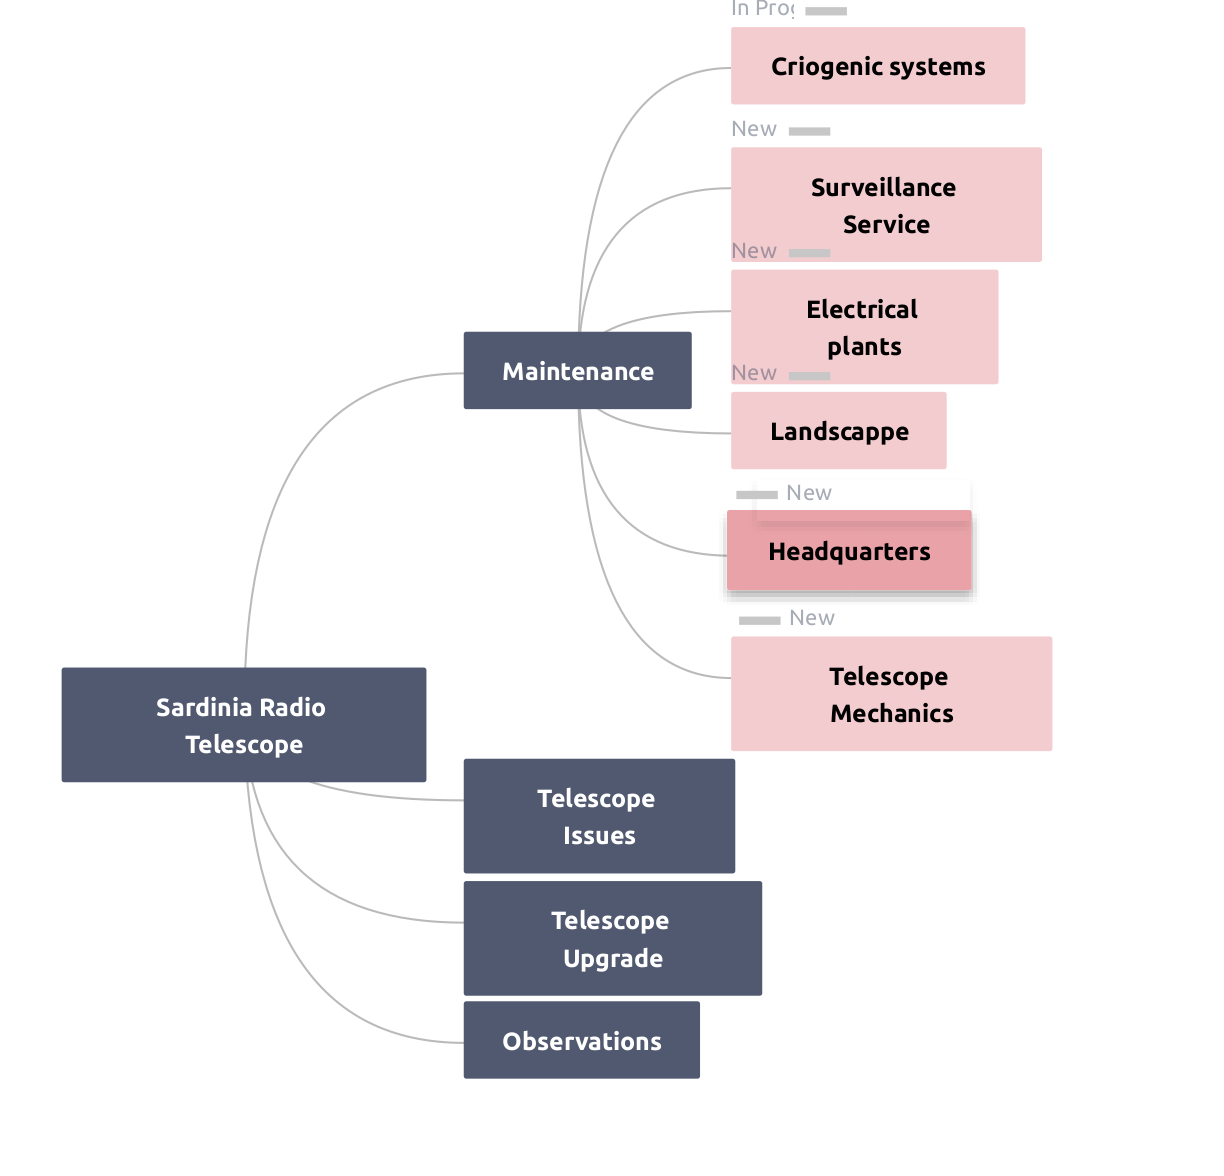
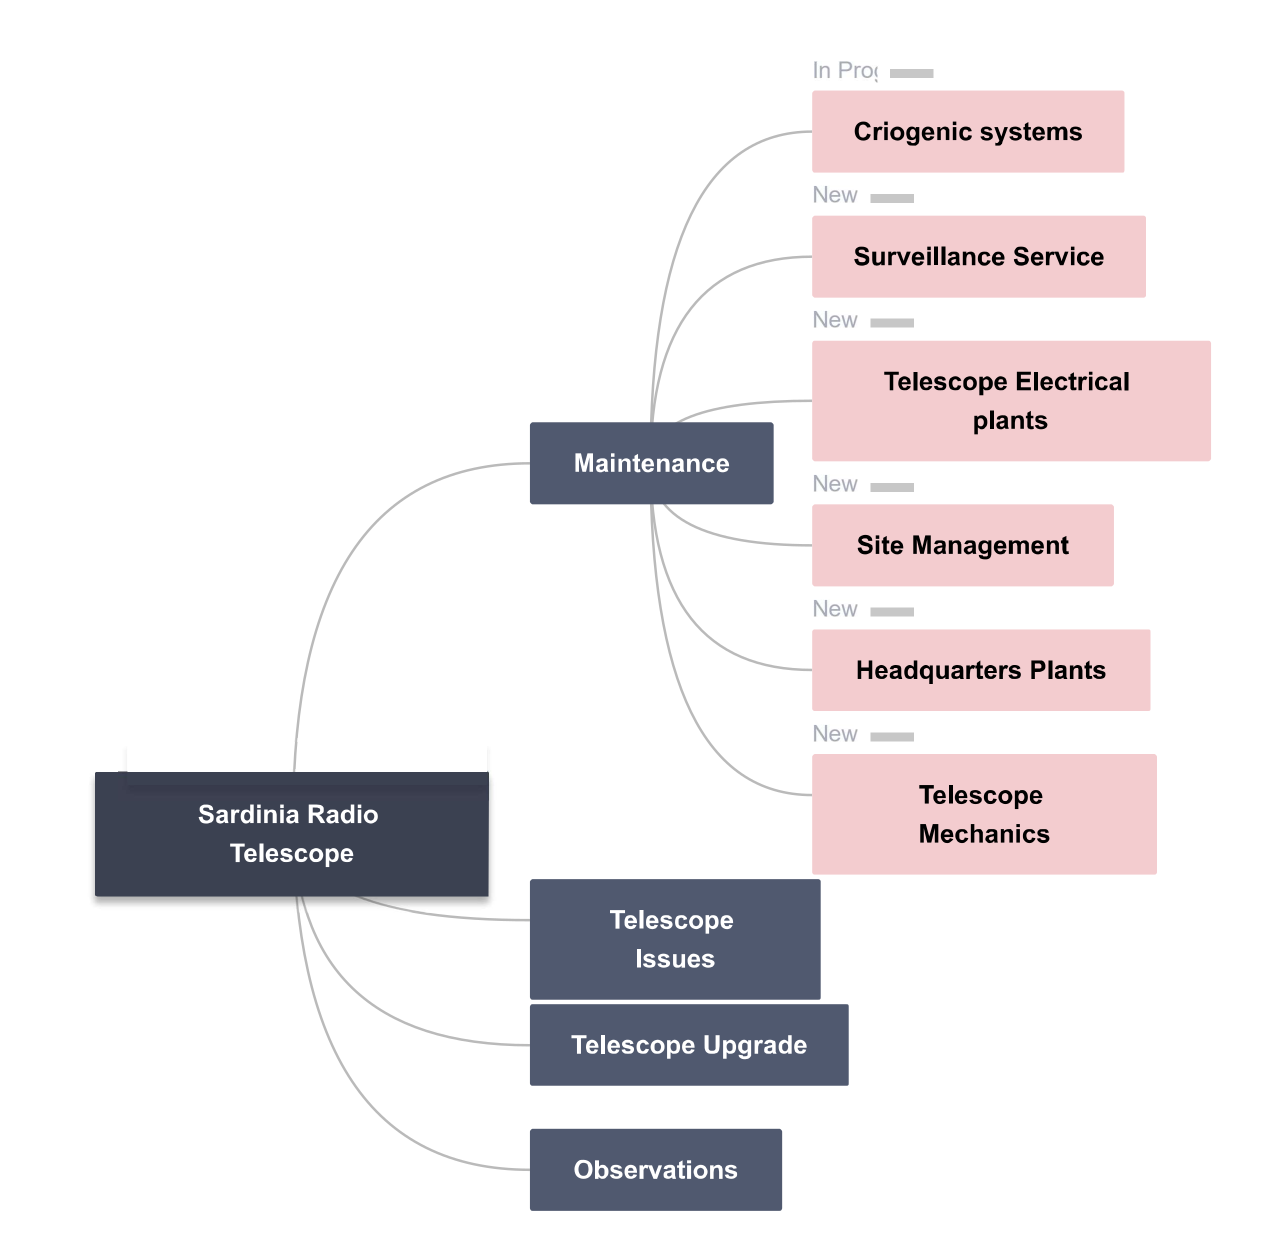
Comments from co-authors

diff --git a/main.tex b/main.tex
@@ -42,8 +42,8 @@ Following  the of Agile principles derived from software development, we intend 
 
 
 The Sardinia Radio Telescope is an observing facility managed by the Istituto Nazionale di Astrofisica (\href{http://www.inaf.it}{INAF}).  
-It is a 64-metre radio telescope, designed to operate  at  frequencies ranging from 300 Mhz to 116 GHz  [\citenum{2015JAI.....450008B}].
-It is a versatile telescope, covering a wide range of frequency, with a high agility of receiver switching. This  allows the telescope to be suitable for many scientific topic like pulsars, interstellar medium, astrochemistry, space weather[\citenum{prandoni}].
+It is a 64-metre radio telescope, designed to operate  at  frequencies ranging from 300 Mhz to 116 GHz  [\cite{2015JAI.....450008B}].
+It is a versatile telescope, covering a wide range of frequency, with a high agility of receiver switching. This  allows the telescope to be suitable for many scientific topic like pulsars, interstellar medium, astrochemistry, space weather[\cite{prandoni}].
 
 For 80\% of the time, SRT is operated by INAF, for  the remaining 20\% by Agenzia Spaziale Italiana (\href{http://www.asi.it}{ASI})  for probe tracking and deep space  activities. 
 Furthermore, SRT is part of  to the European Vlbi Network (\href{https://www.evlbi.org/}{EVN}), a network of telescope operating in Very-long baseline interferometric mode.
@@ -75,7 +75,7 @@ The SRT area covers about 140 000 m$^2$ and includes headquarters, a guesthouse,
 
 \section{Operations}
 Day to day operations are made of a continuous stack of actions which are mandatory  to maximize the effective time of the telescope and the support to the observers. Being an observing facility, all the activity concerning operations  are run to maximize the effective up-time of the telescope and its functionality at its best performances.
-SRT Operations are run by the operating team. The coordinator is the Head of Operations. 
+SRT Operations are run by the operating team. The coordinator is the Head of Operations, who as the role of Operation Manager. 
 Activities are divided in 10 Macro Work Packages which are organized in one or more packages:
 Table~\ref{tab:team_strutture} summarizes the structure of the team. 
 
@@ -119,18 +119,18 @@ Table~\ref{tab:team_strutture} summarizes the structure of the team.
 \rule[-1ex]{0pt}{3.5ex}     \multirow{1}{*}{Interface with ASI Operations}               & \rule[-1ex]{0pt}{3.5ex} Interface with ASI \\
 \hline
     \end{tabular}
-    \caption{Operations structure}
+    \caption{Operating Team is  organized in macro  work packages and work packages}
     \label{tab:team_strutture}
 \end{table}
 
-  \begin{figure} [ht]
+  \begin{figure} [!hb]
    \begin{center}
    \begin{tabular}{c} 
-   \includegraphics[width=\textwidth]{srt_wbs.png}
+   \includegraphics[width=\textwidth]{detailed_wbs.png}
 	\end{tabular}
 	\end{center}
    \caption[example] 
-   { \label{fig:wbs} SRT Operation breakdown.}
+   { \label{fig:wbs} Operations are grouped in maintenance, telescope issues, telescope upgrades and support to observations. Issues can refer to bugs, new features or supporting atcivities.}
 
    \end{figure} 
 Operations are grouped in maintenance, telescope issues, telescope upgrades and support to observations. The structure is outlined in Figure~\ref{fig:wbs}. 
@@ -151,7 +151,7 @@ Observations support starts just after a project is approved. First,  the telesc
 Kanban has origins from Toyota Production System (TPS) which is based on two pillars, the just-in-time production and autonomation. 
 These  concepts allow the implementation of a production system which is optimized in terms of sustainability, delivering only what is needed, 
 in the time that is needed.
-The other pillar is  the autonomation:  automation with human touch \citenum{tps}. 
+The other pillar is  the autonomation:  automation with human touch \cite{tps}. 
 
 \textit{Kanban} is one of the operational items of the TPS. Litterally, {\it kanban} means {\it cards}, which could represent  a piece of work. the production process is visualized  on a board where each stage of the process is represented. Moving the cards along each stage the flow of the process can be easily followed. 
 Usually, cards start from a {\it to do area}, crossing intermediate steps, getting to  {\it done}.
@@ -167,47 +167,48 @@ Usually, cards start from a {\it to do area}, crossing intermediate steps, getti
    \end{figure} 
  Only a limited number of cards can be put on the board. This puts a limit on the possible work in progress, allowing a news {\it to-do} card, only
  after another card get {done}, meaning that the task is done. In this way, the work in progress is limited, allowing only what is sustainable to proceed along the production line.
- Kanband  started with production processes, however, since then it has been applied to other fields in project management  like software development\citenum{brech15}. 
+ Kanband  started with production processes, however, since then it has been applied to other fields in project management  like software development\cite{brech15}. 
 Applied to software development, Kanban methodology follows the principles stated in the manifesto for Agile Software Development
-\footnote{http://agilemanifesto.org}   Generally,  Kanban is built for smooth and continuous delivery of customer value \citenum{brech15}.
+\footnote{http://agilemanifesto.org}   Generally,  Kanban is built for smooth and continuous delivery of customer value \cite{brech15}.
 
 
 \section{Kanban at SRT}
+
+
+
+\begin{figure} [!ht]
+   \begin{center}
+   \begin{tabular}{c} 
+   \includegraphics[width=0.9\textwidth]{kanbanboard.png}
+	\end{tabular}
+	\end{center}
+   \caption[example] 
+   { \label{fig:kanbansrt} SRT Operations Kanban  board. Cards flow from the leftmost column towards the \textit{done} one, when the issue is closed. Each cards contains tracking information, like due date, priority, and assignee.}
+
+   \end{figure} 
+
 There are two kind of issues that an operation manager has to deal with. First, there are issues which can be planned  in advance, like for example  maintenance periodicity and contracts. 
 Other issues can not be foreseen, like malfunctioning, failures, or bugs.
 
 Information concerning unpredictable issues could come from several sources: from a ticketing system opened by observers, sent by email or through the feedback form that observers are asked to fill.
 The operation manager has to check that all kind of issues are tracked and put to the attention of the operating team. 
 A project management software can help track the issue. To do this, we have been using Easy Redmine a commercial implementation of open source Redmine\footnote{\url{https://www.redmine.org/}}.  
-. 
 
 For each issue,  a \textit{task} is created with attributes defining  priority, due date and a possible assignment.
-Figure~\ref{fig:kanbansrt} shows the Kanban board of the whole project. 
+The Operation Manager inserts the task in the backlog. The backlog is the first column of the SRT  Kanban board which is  showed in Figure~\ref{fig:kanbansrt}. The other three columns are  \textit{in charge}, \textit{verification}, \textit{closed}.
 
-It consists of four columns: \textit{backlog}, \textit{in charge}, \textit{verification}, \textit{closed}.
+The backlog represents the\textit{ to-do list}. The card representing the task can give information about the priority, due date and assignment.
+The backlog can be sorted by priority. In Figure~\ref{fig:kanbansrt} is the left most column. The Operations Manager assigns the task and when the assignee starts the work, moves the card to the right, in the {in charge} column. Once the task is supposed to be completed, the assignee moves the card to \textit{verification}, where the issue is tested to verify if it is really  solved. If the issue is  related to a telescope failure, the role to check the verification is passed is in charge to the User Support, who has among his duties to assure the  telescope is at its performances. Otherwise, is the \textit{Site Manager} who leads the Site Management Macro Working Package to check the verification process is completed. At this point, the card is moved to \textit{done}, the rightmost column. 
 
-New tasks are inserted in the backlog. The backlog represents the\textit{ to-do list}. The card representing the task can give information about the priority, due date and assignment.
-The backlog can be sorted by priority. In Figure~\ref{fig:kanbansrt} is the left most column.
+After completion of the verification process, the card gets to the rightmost column. 
+This means that the process is  \textit{done} and the issue can be \textit{closed}.
 
-When a task is assigned and the assignee starts to work on it, the card is moved to {\it in charge}. 
-
-Then, the third column represents the  \textit{verification} stage. Here, the work related to the task is supposed to be completed, but during this stage the issue is tested to be really solved. For example, in case of issue relate to a telescope failure, the verification checks that the functionality is restored after the issue is solved. Beside this, the telescope performances have to be verified as well before passing the card  on.
-
-After completion of the verification process, the card gets to the rightmost column. This means that the process is  \textit{done} and the issue can be \textit{closed}.
-\begin{figure} [ht]
-   \begin{center}
-   \begin{tabular}{c} 
-   \includegraphics[width=\textwidth]{kanbanboard.png}
-	\end{tabular}
-	\end{center}
-   \caption[example] 
-   { \label{fig:kanbansrt} SRT Operation Kanban  board.}
-
-   \end{figure} 
+This is nearly the beginning of Kanban at SRT, in the next phase we will collect statistics about timings of the various phase, so that it will be possible to track the most used areas, the least staffed work packages and try to reduce downtime by reallocating resources.
 
 
 
 \section{Conclusions}
+
 With respect traditional waterfall tracking issues methods, Kanban improves the efficiency of running operations.
 From one hand, the Kanban board helps the manager and the team  visualize the flow of the process, concerning the issues. It can be possible to view at which stage is set each task, highlighting the bottlenecks.
 
